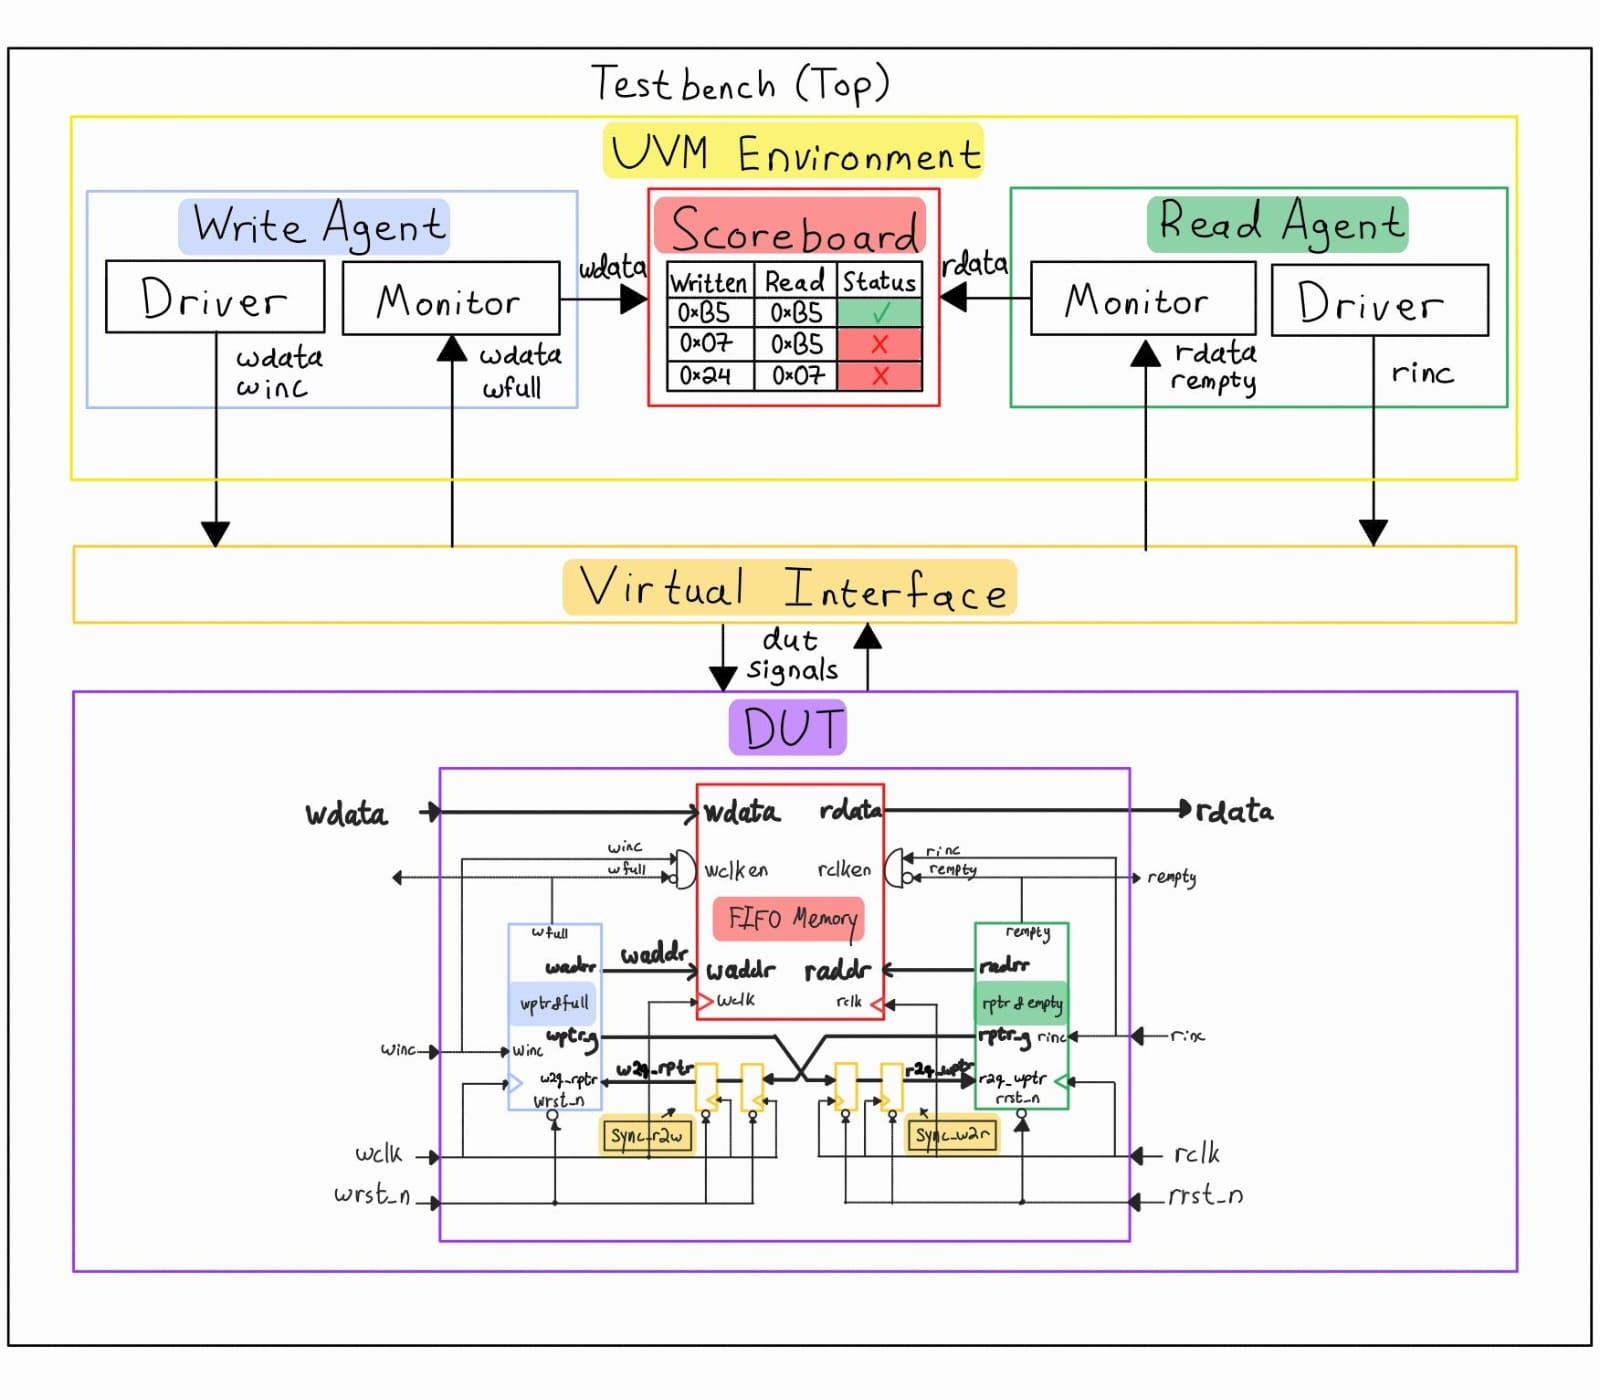
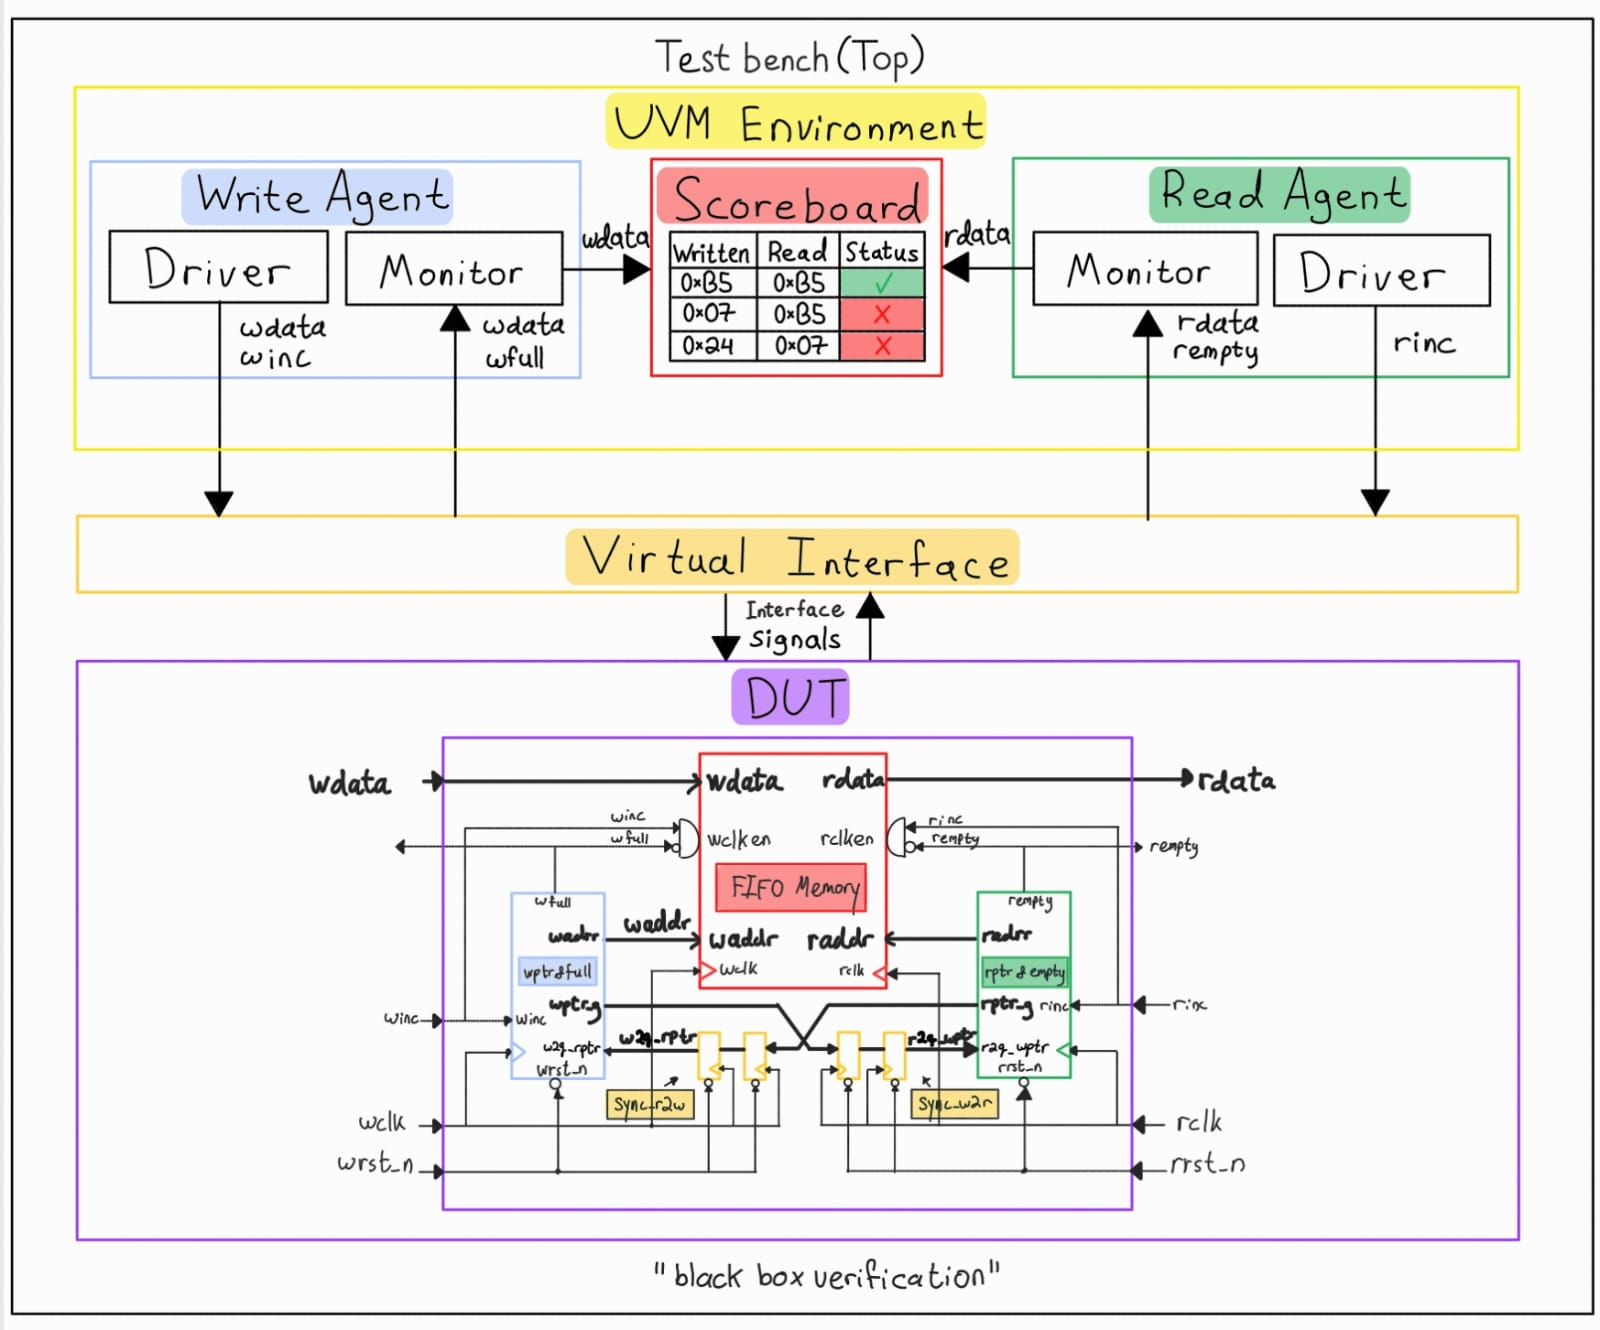
5. Sva & Coverage update

Changed region(s): [[0.0, 0.0, 1.0, 1.0], [0.9688, 0.0, 1.0, 0.0617]]

diff --git a/README.md b/README.md
@@ -28,7 +28,7 @@
   - [Testbench Signal Map](#testbench-signal-map)
 - [5. SVA & Coverage](#5-sva--coverage)
   - [Why use SystemVerilog Assertions?](#why-use-systemverilog-assertions)
-  - [SystemVerilog Assertions - 12 Safety Checkers](#systemverilog-assertions---12-safety-checkers)
+  - [SystemVerilog Assertions - 13 Safety Checkers](#systemverilog-assertions---13-safety-checkers)
   - [Defense in Depth (Data Integrity)](#defense-in-depth-data-integrity)
   - [Functional & Structural Code Coverage](#functional--structural-code-coverage)
   - [Verification Trace Matrix (Features Verified)](#verification-trace-matrix-features-verified)
@@ -153,24 +153,51 @@ $$\text{G} = \text{B} \text{ xor } (\text{B} \gg 1)$$
 ### Problem: Setup/Hold Timing Violations
 Even with Gray-coded pointers, a single transitioning bit can still violate the setup or hold timing requirements of the receiving flip-flop, leading to **metastability**.
 
-Flip-flops require input signals to remain stable during a setup and hold window around the active clock edge. Asynchronous clocks render these violations inevitable, leaving internal latch nodes at an unstable intermediate voltage state ($V_{DD}/2$) that can cause output oscillations.
+Flip-flops require input signals to remain stable during a setup and hold window around the active clock edge. Because the clocks are asynchronous, such violations cannot be completely avoided.
 
-#### How Metastability Occurs (Internal Flip-Flop Dynamics)
+#### How Metastability Occurs — Internal Flip-Flop Dynamics
 
-* **1. Before Clock Edge:** Input $D$ is latched on node $X$.  
-  ![Before Edge](docs/Before_Edge.png)
+A flip-flop can be viewed internally as a regenerative circuit containing cross-coupled inverters controlled by transmission gates.
 
-* **2. After Clock Edge:** Node $X$ is transferred to output $Q$.  
-  ![After Edge](docs/After_Edge.png)
+1. **Before the Clock Edge:**
+   The input data propagates through the input stage and establishes a voltage on an internal storage node.  
+   ![Before Edge](docs/Before_Edge.png)
 
-* **3. The Metastable State:** Node X and node Y end up with conflicting voltage levels post-edge. Node X drives node Y through Transmission Gate 2 (with delay), while node Y drives node X back through the dual-inverter feedback path. Because their states conflict, both nodes get trapped at an intermediate voltage level ($V_{DD}/2$), causing output $Q$ to remain metastable until noise resolves the loop.  
-  ![Metastable State](docs/Metastable_State.jpeg)
+2. **At the Clock Edge:**
+   The transmission gates change state, disconnecting the input path and enabling the regenerative feedback path. If the input changes within the setup/hold window, the internal nodes may contain conflicting voltage levels.  
+   ![After Edge](docs/After_Edge.png)
 
-* **4. Setup Violation:** Occurs if input $D$ changes too late before the clock edge. $D$ reaches node $Y$ but fails to propagate to node $X$ before sampling, causing node $X$ to retain its previous state different from the new $D$ value.  
-  ![Setup Time Violation](docs/Setup_Time.jpeg)
+3. **Analog Contention:**
+   At this point, the internal nodes are no longer behaving as ideal digital 0/1 signals. The feedback path and the transmission-gate paths interact dynamically. One node can drive the other through the feedback inverters while the other node simultaneously affects the first. The exact transient behavior depends on transistor drive strengths, capacitances, propagation delays, and process variations.  
+   ![Metastable State](docs/Metastable_State.jpeg)
 
-* **5. Hold Violation:** Occurs if input $D$ changes after the clock edge before Transmission Gate 1 completely isolates the input stage, altering node $Y$ and mismatching latched node $X$.  
-  ![Hold Time Violation](docs/Hold_Time.jpeg)
+4. **Metastable Equilibrium:**
+   The cross-coupled inverter pair has two stable states (logic 0 and logic 1) and an unstable equilibrium point between them. This equilibrium voltage, often denoted $V_M$, is typically near $V_{DD}/2$, but is not necessarily exactly $V_{DD}/2$.
+
+   If the contention leaves the regenerative loop sufficiently close to this unstable equilibrium, the positive feedback initially has only a very small voltage difference to amplify. The circuit therefore requires additional time to resolve to a valid logic 0 or 1.
+
+5. **Regeneration:**
+   Around the metastable point, the voltage difference can grow approximately exponentially:
+
+   $$
+   \Delta V(t) = \Delta V_0 e^{t/\tau}
+   $$
+
+   where $\Delta V_0$ is the initial voltage difference from the metastable equilibrium and $\tau$ is the characteristic resolution time constant of the circuit.
+
+   Therefore, the closer the internal state is to the unstable equilibrium after the initial transient, the longer the resolution can take. The important quantity is not whether a node is exactly at $V_{DD}/2$, but how close the regenerative circuit as a whole is to its unstable equilibrium.
+
+6. **Setup Violation:**
+   Occurs if input $D$ changes too late before the clock edge. $D$ reaches the internal input node but fails to propagate through the storage path before sampling, leaving the regenerative latch in a potentially metastable condition.  
+   ![Setup Time Violation](docs/Setup_Time.jpeg)
+
+7. **Hold Violation:**
+   Occurs if input $D$ changes too soon after the clock edge, before the input transmission path has completely isolated the storage node, again potentially leaving the regenerative latch close to its metastable equilibrium.  
+   ![Hold Time Violation](docs/Hold_Time.jpeg)
+
+#### Key Point
+
+Metastability should not be interpreted simply as "both internal nodes becoming $V_{DD}/2$." Instead, it is a dynamic analog condition in which the regenerative latch is left close to its unstable equilibrium. The exact internal voltages during the transient are circuit-dependent.
 
 ---
 
@@ -180,7 +207,7 @@ To prevent metastable outputs from propagating into internal control logic, Gray
 ![2FF Synchronizer Architecture](docs/Gray_Pointer_Syncronizer.jpeg)
 
 1. **Stage 1 ($Q_1$):** Samples the raw asynchronous Gray pointer. If a setup/hold violation occurs, $Q_1$ may become metastable.
-2. **Resolution Window ($t_r$):** $Q_1$ is granted a full destination clock cycle for its internal node voltages to decay to a deterministic digital '0' or '1'.
+2. **Resolution Window ($t_r$):** $Q_1$ is given approximately one destination-clock cycle for any metastable condition to resolve through the regenerative feedback into a deterministic digital '0' or '1'.
 3. **Stage 2 ($Q_2$):** Samples the settled output of $Q_1$. Because the probability of $Q_1$ remaining metastable for a full clock cycle is exponentially low, $Q_2$ creates a clean, synchronized signal.
 
 #### Mean Time Between Failures (MTBF)
@@ -285,9 +312,9 @@ However, if the Scoreboard detects a failure, it only tells us that the data bro
 
 To catch these hardware-level bugs the exact cycle they happen, we implemented **SVA** as our **White-Box** checker. Built using strictly timed **Temporal Logic**, SVA lives in the hardware domain. Unlike the Scoreboard, SVA is perfect for checking immediate, short-term events. It monitors internal signals cycle-by-cycle, telling us exactly *why* and *when* a protocol was violated.
 
-## SystemVerilog Assertions - 12 Safety Checkers
+## SystemVerilog Assertions - 13 Safety Checkers
 
-The verification environment contains **12 concurrent and immediate SystemVerilog Assertions** to check the safety and correctness of the FIFO protocol:
+The verification environment contains **13 concurrent and immediate SystemVerilog Assertions** to check the safety and correctness of the FIFO protocol:
 
 1. **Write Domain Reset:** Asserts that when the write reset is active, all write pointers (`waddr`, binary, Gray) and the full flag are correctly initialized to `0`.
 2. **Read Domain Reset:** Asserts that when the read reset is active, all read pointers (`raddr`, binary, Gray) are initialized to `0` and the empty flag is asserted (`1`).
@@ -299,12 +326,13 @@ The verification environment contains **12 concurrent and immediate SystemVerilo
 8. **Full Flag Generation:** Verifies that when the write Gray pointer matches the synchronized read Gray pointer (with the two MSBs inverted), the full flag is asserted.
 9. **Write Enable Gating:** Verifies that `wclken` is only active when `winc = 1` and `wfull = 0`.
 10. **Read Enable Gating:** Verifies that `rclken` is only active when `rinc = 1` and `rempty = 0`.
-11. **Data Integrity Checker:** Compares the read data against a golden shadow memory array (`fifo_data`) at the read address to check for data corruption.
-12. **Memory Occupancy Bound Check:** Verifies that the modular difference between the write pointer and synchronized read pointer never exceeds the FIFO depth.
+11. **Write Memory Occupancy Bound Check:** Verifies that the difference between the write pointer and synchronized read pointer never exceeds the FIFO depth.
+12. **Read Memory Occupancy Bound Check:** Verifies that the difference between the synchronized write pointer and read pointer never exceeds the FIFO depth on the read side.
+13. **Data Integrity Checker:** Compares the read data against a golden shadow memory array (`fifo_data`) at the read address to check for data corruption.
 
 ### Defense in Depth (Data Integrity)
 
-While SVA checker #11 behaves like a scoreboard by verifying data integrity, keeping both provides **Defense in Depth** for debugging. 
+While SVA checker #13 behaves like a scoreboard by verifying data integrity, keeping both provides **Defense in Depth** for debugging. 
 
 **Why check data integrity twice?** If both the SVA and the Scoreboard fail, the internal memory array corrupted the data. If *only* the Scoreboard fails, the memory is fine, but data was corrupted externally on the bus.
 
@@ -338,16 +366,13 @@ The verification plan defines **12 distinct coverpoints and crosses** (split bet
 
 | Verification Scenario | Status | SVA Checker Evidence | Functional Coverage Evidence |
 |---|---|---|---|
-| **FIFO Full Detection** | ✅ Passed | SVA #8 (Full Flag Generation) | Coverpoint `wfull` |
-| **FIFO Empty Detection** | ✅ Passed | SVA #7 (Empty Flag Generation) | Coverpoint `rempty` |
-| **Overflow Protection** | ✅ Passed | SVA #3 (Write Pointer Stability), SVA #9 (Write Gating) | Cross `winc` × `wfull` |
-| **Underflow Protection** | ✅ Passed | SVA #4 (Read Pointer Stability), SVA #10 (Read Gating) | Cross `rinc` × `rempty` |
-| **Simultaneous Read/Write** | ✅ Passed | SVA #11 (Data Integrity Checker) | Crosses `winc` / `rinc` × Occupancy |
-| **Pointer Wraparound** | ✅ Passed | SVA #12 (Memory Occupancy Bound Check) | Coverpoints `w_occupancy` / `r_occupancy` |
-| **Asynchronous Clock Ratios** | ✅ Passed | SVA #11 (Data Integrity Checker) | Parameterized clock period sweeps |
-| **Gray Pointer Correctness** | ✅ Passed | SVA #5, #6 (Gray-Code Integrity) | Coverpoints `wptr_g_cur` / `rptr_g_cur` |
 | **Reset Recovery** | ✅ Passed | SVA #1, #2 (Write/Read Domain Reset) | Coverpoints `wrst_n` / `rrst_n` |
-| **CDC Synchronization Behavior** | ✅ Passed | SVA #7, #8 (CDC Gray Pointers match) | Synchronized pointer cross tracking |
+| **Pointer Stability (Overflow/Underflow)** | ✅ Passed | SVA #3, #4 (Write/Read Pointer Stability) | Crosses `winc` × `wfull` / `rinc` × `rempty` |
+| **Gray Pointer Correctness** | ✅ Passed | SVA #5, #6 (Gray-Code Integrity) | Indirectly by Coverpoints `w_occupancy` / `r_occupancy` |
+| **FIFO Flag Detection (Empty/Full)** | ✅ Passed | SVA #7, #8 (Flag Generation & CDC Sync) | Coverpoints `rempty` / `wfull` |
+| **Enable Logic Gating** | ✅ Passed | SVA #9, #10 (Write/Read Enable Gating) | Crosses `winc` × `wfull` / `rinc` × `rempty` |
+| **Pointer Wraparound & Bounds** | ✅ Passed | SVA #11, #12 (Memory Occupancy Bound Checks) | Coverpoints `w_occupancy` / `r_occupancy` |
+| **Data Integrity** | ✅ Passed | SVA #13 (Data Integrity Checker) | Verified by UVM Scoreboard |
 
 ---
 
